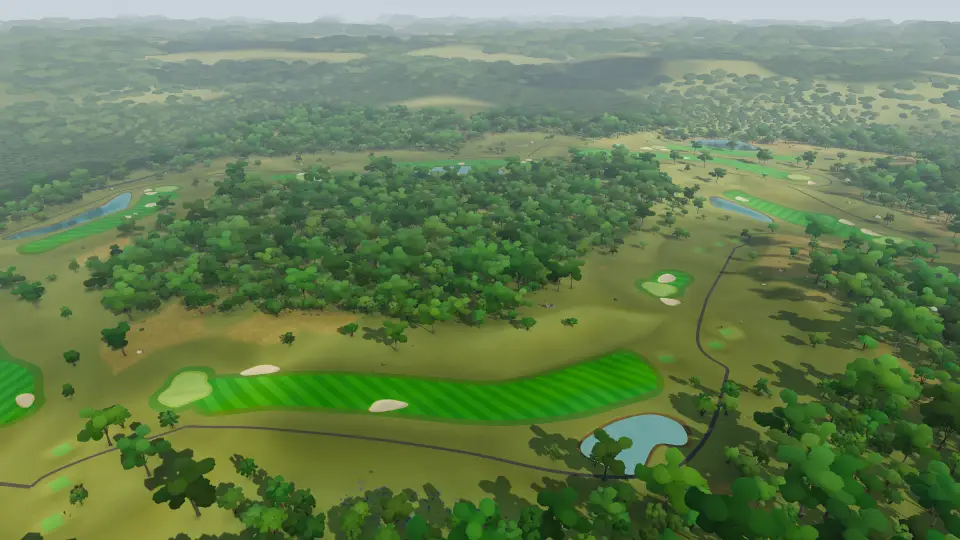
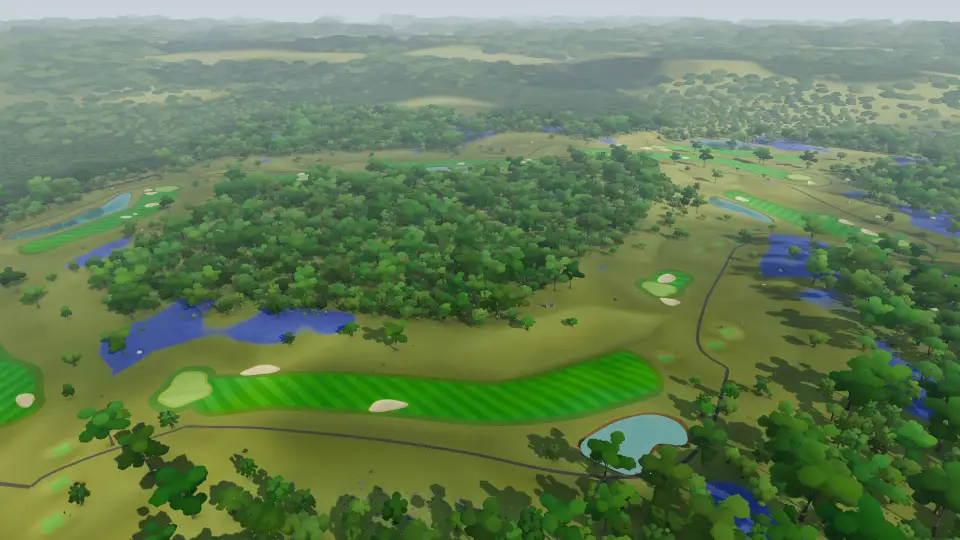
US landscapes: Bluebonnet Prairie in bloom
Its native-grass drifts beyond play are painted bluebonnet blue: from the
camera the landscape now reads as fields in flower, which the 0.4 m clumps
alone never did. Drawing only (the fingerprint is unchanged). Cards
re-encoded. Seen in a capture.

diff --git a/src/biomes.js b/src/biomes.js
@@ -788,6 +788,9 @@ const LAND = {
  // Bluebonnet Prairie: the Blackland Prairie, flat and open, pecan and cedar
  // elm along the creeks, Osage orange hedgerows, bluebonnets everywhere.
  bluebonnet: {treeDensity: 1.4, rough: '#7e8a4a', hills: {base: 14, severity: 20, reach: 70},
+  // The fields in bloom: the prairie's native drifts beyond play painted
+  // bluebonnet blue (drawing only; PLACED).
+  groundTints: {native: '#6276c4'},
   // The field in bloom from a distance: the long grass's heads bluebonnet
   // blue, half as many tufts again (rendering only; PLACED -- the pack's
   // clumps are under half a metre and read only close to).

diff --git a/docs/TODO.md b/docs/TODO.md
@@ -232,12 +232,10 @@ section 6); nothing ships early -- the branch merges when all of it is done.
   #c4b468) at two-thirds of the ground, its water brackish -- it reads as
   open grass flats round live-oak woods; still no tidal creeks or marsh
   water, which want a water rule of their own.
-- [ ] **Bluebonnet Prairie does not read as a bluebonnet field from the
-  camera**: the pack's clumps (0.3-0.45 m), the rough's flowers and the long
-  grass's blue heads show close to, not as the blue drifts the name
-  promises. Wants drifts of blue painted into the ground (the ground
-  shader's native drifts, or a flower-field ground kind), seen in the
-  pictures of 3 November.
+- [x] **Bluebonnet Prairie reads as bluebonnet fields** (3 November 2026,
+  drawing only): its native-grass drifts beyond play are painted bluebonnet
+  blue (groundTints native #6276c4), with the blue-headed long grass and the
+  rough's flowers. Seen in a capture.
 - [x] **Texas and the deserts** (phase 6; SCHEMA 20, generator 67): Hill
   Country, Bluebonnet Prairie and Gulf Coast (a new `texas` region,
   limestone boulders, a stone ranch-house clubhouse) and the Mojave, Desert

diff --git a/docs/RESEARCH.md b/docs/RESEARCH.md
@@ -12588,7 +12588,9 @@ paintbrush red (#d8502e), 16% of the grass blades as everywhere (PLACED).
 Seen when Bluebonnet Prairie's first pictures had no bluebonnets in them:
 the pack's clumps are 0.3-0.45 m and read only close to. Its long grass's
 heads are bluebonnet blue too (#4a62c8, 6,000 tufts against Texas's 4,000;
-PLACED); still not a field from the camera (TODO).
+PLACED); still not a field from the camera -- until its native-grass drifts
+(over half the ground beyond play) were painted bluebonnet blue, #6276c4
+(PLACED; drawing only, the fingerprint unchanged).
 
 
 ## California and the western mountains (phase 7, 3 November 2026)
